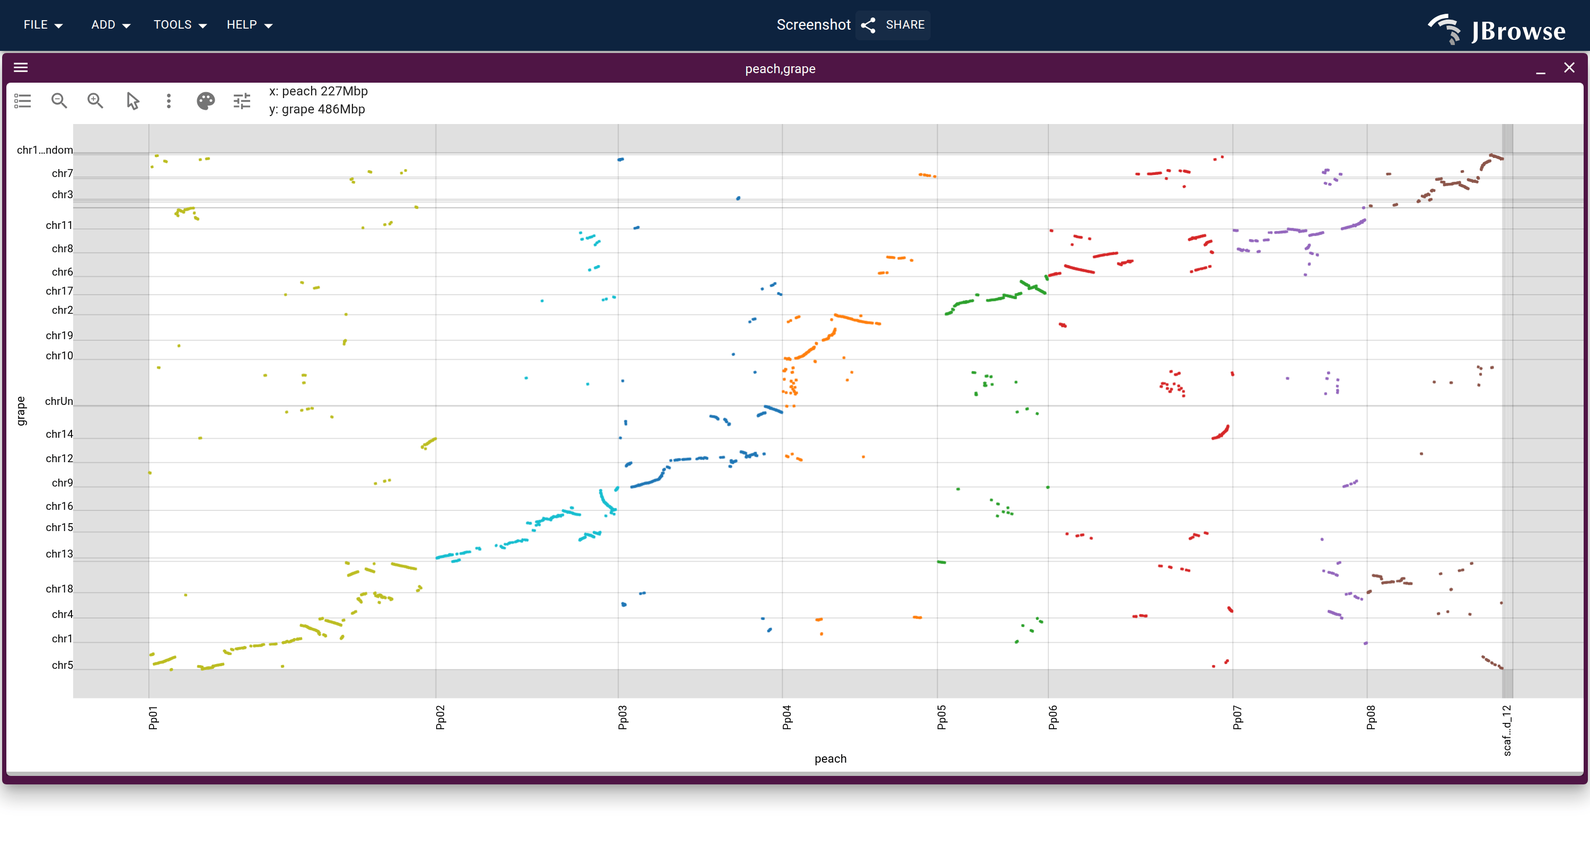
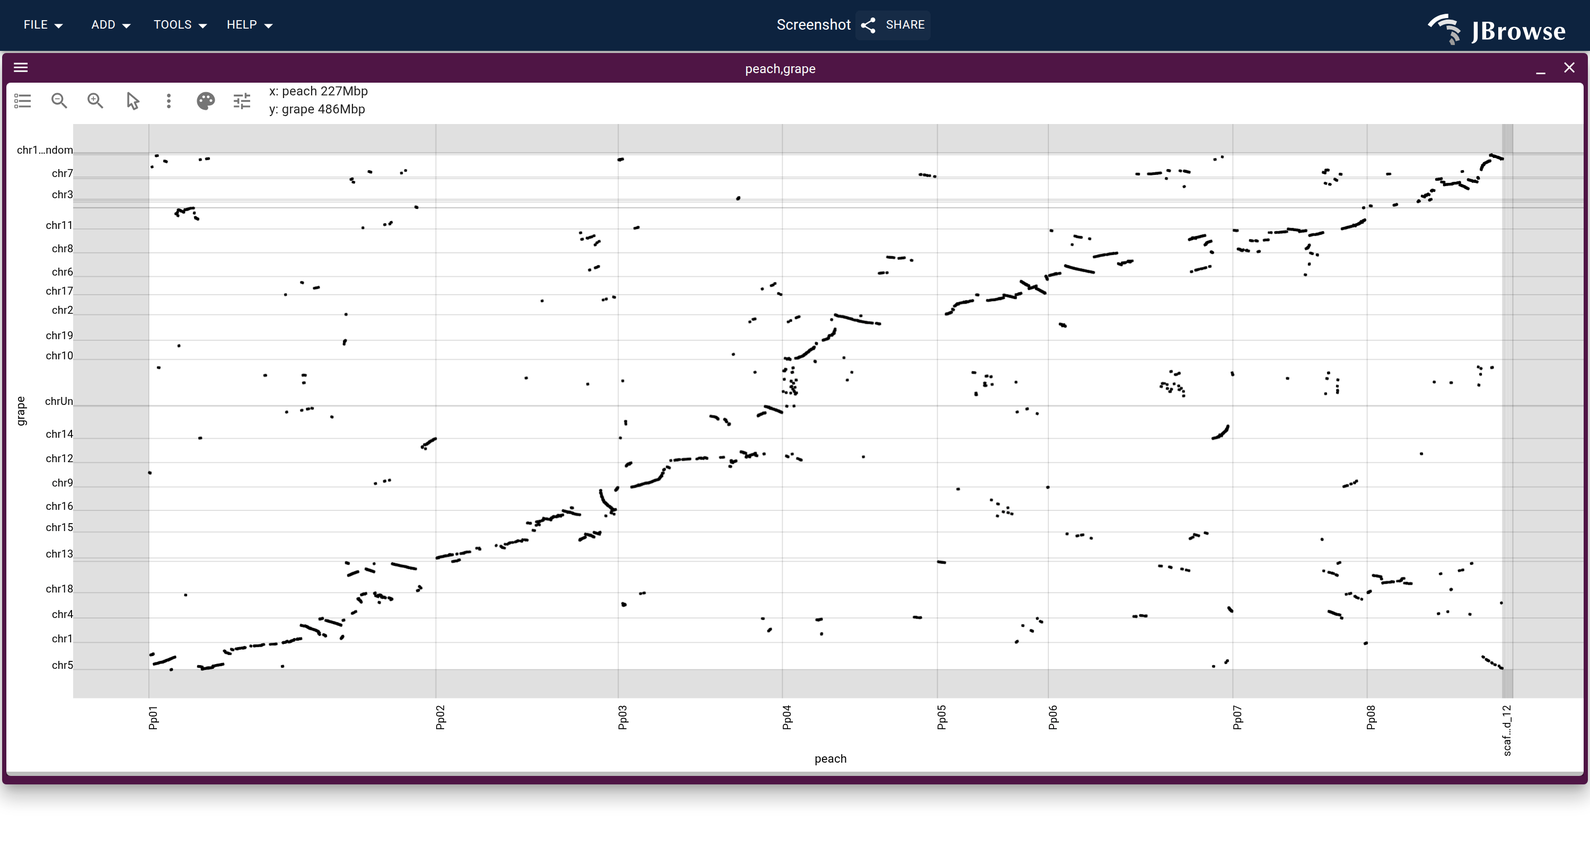
docs(dotplot): drop colorBy from the dotplots, document self-alignment
Per-query coloring was doing rescue work on two whole-genome plots and doing
it badly: a rainbow of one-pixel dots reads as noise with extra steps, and on
the MCScan anchors the diagonalized runs already separate on position. Both go
black, which is what every other dotplot here already is.

Adds a chrY-against-itself figure, the case no pairwise plot can produce: the
TSPY array draws as a filled wedge on the diagonal and the Yq palindromes as
crossings off it. The guide section says what a reader needs to reproduce it,
which is mostly that minimap2 needs -P (without it every off-diagonal hit is
marked secondary and dropped) and that the two assembly entries must not be
named after a sequence they contain, or the view hangs on an ambiguous
locstring.

The alignment is hosted under demos/scratch and should move somewhere
permanent before this figure is relied on.

diff --git a/website/src/lib/galleryLinks.generated.ts b/website/src/lib/galleryLinks.generated.ts
@@ -7,7 +7,7 @@ export const specSessionUrls: Record<string, string> = {
   "synteny_human_chimp_cigar_modes": "?config=test_data/hg38_panTro6_synteny/config.json&session=spec-%7B%22views%22%3A%5B%7B%22type%22%3A%22LinearSyntenyView%22%2C%22cigarMode%22%3A%22full%22%2C%22drawCurves%22%3Atrue%2C%22tracks%22%3A%5B%5B%22hg38_panTro6_synteny%22%5D%5D%2C%22views%22%3A%5B%7B%22assembly%22%3A%22hg38%22%2C%22loc%22%3A%22chr13%3A48%2C459%2C000-48%2C477%2C500%22%2C%22tracks%22%3A%5B%7B%22trackId%22%3A%22hg38-genes%22%2C%22geneGlyphMode%22%3A%22longestCoding%22%2C%22featureHeight%22%3A18%7D%2C%7B%22trackId%22%3A%22hg38-rmsk%22%2C%22heightMode%22%3A%22grow%22%7D%5D%2C%22trackLabels%22%3A%22offset%22%7D%2C%7B%22assembly%22%3A%22panTro6%22%2C%22loc%22%3A%22chr13%3A29%2C450%2C000-29%2C459%2C000%22%2C%22tracks%22%3A%5B%7B%22trackId%22%3A%22panTro6-rmsk%22%2C%22heightMode%22%3A%22grow%22%7D%2C%7B%22trackId%22%3A%22panTro6-genes%22%2C%22geneGlyphMode%22%3A%22longestCoding%22%2C%22featureHeight%22%3A18%7D%5D%2C%22trackLabels%22%3A%22offset%22%7D%5D%7D%5D%7D&sessionName=Screenshot",
   "synteny_te_vapb_sva": "?config=test_data/hg38_panTro6_synteny/config.json&session=spec-%7B%22views%22%3A%5B%7B%22type%22%3A%22LinearSyntenyView%22%2C%22cigarMode%22%3A%22full%22%2C%22drawCurves%22%3Atrue%2C%22tracks%22%3A%5B%5B%22hg38_panTro6_synteny%22%5D%5D%2C%22views%22%3A%5B%7B%22assembly%22%3A%22hg38%22%2C%22loc%22%3A%22chr20%3A58%2C404%2C000-58%2C424%2C000%22%2C%22tracks%22%3A%5B%7B%22trackId%22%3A%22hg38-genes%22%2C%22geneGlyphMode%22%3A%22longestCoding%22%2C%22featureHeight%22%3A18%7D%2C%7B%22trackId%22%3A%22hg38-rmsk%22%2C%22heightMode%22%3A%22grow%22%7D%5D%2C%22trackLabels%22%3A%22offset%22%7D%2C%7B%22assembly%22%3A%22panTro6%22%2C%22loc%22%3A%22chr20%3A58%2C043%2C000-58%2C058%2C000%22%2C%22tracks%22%3A%5B%7B%22trackId%22%3A%22panTro6-rmsk%22%2C%22heightMode%22%3A%22grow%22%7D%2C%7B%22trackId%22%3A%22panTro6-genes%22%2C%22geneGlyphMode%22%3A%22longestCoding%22%2C%22featureHeight%22%3A18%7D%5D%2C%22trackLabels%22%3A%22offset%22%7D%5D%7D%5D%7D&sessionName=Screenshot",
   "synteny_te_picalm_alu": "?config=test_data/hg38_panTro6_synteny/config.json&session=spec-%7B%22views%22%3A%5B%7B%22type%22%3A%22LinearSyntenyView%22%2C%22cigarMode%22%3A%22full%22%2C%22drawCurves%22%3Atrue%2C%22tracks%22%3A%5B%5B%22hg38_panTro6_synteny%22%5D%5D%2C%22views%22%3A%5B%7B%22assembly%22%3A%22hg38%22%2C%22loc%22%3A%22chr11%3A85%2C978%2C000-85%2C986%2C000%22%2C%22tracks%22%3A%5B%7B%22trackId%22%3A%22hg38-genes%22%2C%22geneGlyphMode%22%3A%22longestCoding%22%2C%22featureHeight%22%3A18%7D%2C%7B%22trackId%22%3A%22hg38-rmsk%22%2C%22heightMode%22%3A%22grow%22%7D%5D%2C%22trackLabels%22%3A%22offset%22%7D%2C%7B%22assembly%22%3A%22panTro6%22%2C%22loc%22%3A%22chr11%3A81%2C727%2C500-81%2C735%2C000%22%2C%22tracks%22%3A%5B%7B%22trackId%22%3A%22panTro6-rmsk%22%2C%22heightMode%22%3A%22grow%22%7D%2C%7B%22trackId%22%3A%22panTro6-genes%22%2C%22geneGlyphMode%22%3A%22longestCoding%22%2C%22featureHeight%22%3A18%7D%5D%2C%22trackLabels%22%3A%22offset%22%7D%5D%7D%5D%7D&sessionName=Screenshot",
-  "dotplot": "?config=test_data/config_dotplot.json&session=spec-%7B%22views%22%3A%5B%7B%22type%22%3A%22DotplotView%22%2C%22views%22%3A%5B%7B%22assembly%22%3A%22peach%22%7D%2C%7B%22assembly%22%3A%22grape%22%7D%5D%2C%22tracks%22%3A%5B%22grape_peach_paf%22%5D%2C%22minAlignmentLength%22%3A2000%2C%22colorBy%22%3A%22query%22%7D%5D%7D&sessionName=Screenshot",
+  "dotplot": "?config=test_data/config_dotplot.json&session=spec-%7B%22views%22%3A%5B%7B%22type%22%3A%22DotplotView%22%2C%22views%22%3A%5B%7B%22assembly%22%3A%22peach%22%7D%2C%7B%22assembly%22%3A%22grape%22%7D%5D%2C%22tracks%22%3A%5B%22grape_peach_paf%22%5D%2C%22minAlignmentLength%22%3A2000%7D%5D%7D&sessionName=Screenshot",
   "linear_synteny": "?config=test_data/config_dotplot.json&session=spec-%7B%22views%22%3A%5B%7B%22type%22%3A%22LinearSyntenyView%22%2C%22tracks%22%3A%5B%22grape_peach_synteny_mcscan%22%5D%2C%22drawCurves%22%3Afalse%2C%22colorBy%22%3A%22query%22%2C%22alpha%22%3A0.8%2C%22levelHeights%22%3A%5B360%5D%2C%22autoDiagonalize%22%3Atrue%2C%22views%22%3A%5B%7B%22assembly%22%3A%22peach%22%7D%2C%7B%22assembly%22%3A%22grape%22%7D%5D%7D%5D%7D&sessionName=Screenshot",
   "multiway_synteny/grape_peach_cacao": "?config=https%3A%2F%2Fjbrowse.org%2Fdemos%2Fgrape_peach_cacao%2Fconfig.json&session=spec-%7B%22views%22%3A%5B%7B%22type%22%3A%22LinearSyntenyView%22%2C%22views%22%3A%5B%7B%22assembly%22%3A%22peach%22%7D%2C%7B%22assembly%22%3A%22cacao%22%7D%2C%7B%22assembly%22%3A%22grape%22%7D%5D%2C%22tracks%22%3A%5B%5B%22grape_peach_cacao_blocks%22%5D%2C%5B%22grape_peach_cacao_blocks%22%5D%5D%2C%22colorBy%22%3A%22reference%22%2C%22autoDiagonalize%22%3Atrue%7D%5D%7D&sessionName=Screenshot",
   "multiway_synteny/grape_peach_cacao_gene_orthologs": "?config=https%3A%2F%2Fjbrowse.org%2Fdemos%2Fgrape_peach_cacao%2Fconfig.json&session=spec-%7B%22views%22%3A%5B%7B%22type%22%3A%22LinearSyntenyView%22%2C%22views%22%3A%5B%7B%22assembly%22%3A%22peach%22%2C%22loc%22%3A%22G7%3A19%2C290%2C000-19%2C362%2C000%22%2C%22tracks%22%3A%5B%7B%22trackId%22%3A%22peach_genes%22%2C%22showOnlyGenes%22%3Atrue%2C%22displayMode%22%3A%22compact%22%2C%22showDescriptions%22%3Afalse%7D%5D%7D%2C%7B%22assembly%22%3A%22grape%22%2C%22loc%22%3A%2211%3A1%2C840%2C000-1%2C927%2C000%22%2C%22tracks%22%3A%5B%7B%22trackId%22%3A%22grape_genes%22%2C%22showOnlyGenes%22%3Atrue%2C%22displayMode%22%3A%22compact%22%2C%22showDescriptions%22%3Afalse%7D%5D%7D%2C%7B%22assembly%22%3A%22cacao%22%2C%22loc%22%3A%22IX%3A4%2C665%2C000-4%2C743%2C000%22%2C%22tracks%22%3A%5B%7B%22trackId%22%3A%22cacao_genes%22%2C%22showOnlyGenes%22%3Atrue%2C%22displayMode%22%3A%22compact%22%2C%22showDescriptions%22%3Afalse%7D%5D%7D%5D%2C%22tracks%22%3A%5B%5B%22grape_peach_cacao_blocks%22%5D%2C%5B%22grape_peach_cacao_blocks%22%5D%5D%2C%22drawCurves%22%3Atrue%2C%22colorBy%22%3A%22reference%22%7D%5D%7D&sessionName=Screenshot",
@@ -23,7 +23,7 @@ export const specSessionUrls: Record<string, string> = {
   "mcscan_anchors": "?config=test_data/config_dotplot.json&session=spec-%7B%22views%22%3A%5B%7B%22type%22%3A%22LinearSyntenyView%22%2C%22drawCurves%22%3Atrue%2C%22tracks%22%3A%5B%5B%22grape_peach_synteny_mcscan%22%2C%22grape_peach_synteny_mcscan_simple%22%5D%5D%2C%22levelHeights%22%3A%5B236%5D%2C%22views%22%3A%5B%7B%22assembly%22%3A%22peach%22%2C%22loc%22%3A%22Pp05%3A7%2C380%2C181-14%2C148%2C567%22%2C%22tracks%22%3A%5B%7B%22trackId%22%3A%22grape_peach_synteny_mcscan_simple%22%2C%22type%22%3A%22LGVSyntenyDisplay%22%2C%22height%22%3A60%7D%5D%7D%2C%7B%22assembly%22%3A%22grape%22%2C%22loc%22%3A%22chr2%3A1-7%2C112%2C179%22%2C%22tracks%22%3A%5B%7B%22trackId%22%3A%22grape_peach_synteny_mcscan_simple%22%2C%22type%22%3A%22LGVSyntenyDisplay%22%2C%22height%22%3A60%7D%5D%7D%5D%7D%5D%7D&sessionName=Screenshot",
   "mcscan_synteny/anchors": "?config=test_data/config_dotplot.json&session=spec-%7B%22views%22%3A%5B%7B%22type%22%3A%22LinearSyntenyView%22%2C%22tracks%22%3A%5B%5B%22grape_peach_synteny_mcscan%22%5D%5D%2C%22drawCurves%22%3Afalse%2C%22levelHeights%22%3A%5B260%5D%2C%22collapseEmptyRows%22%3Atrue%2C%22views%22%3A%5B%7B%22assembly%22%3A%22grape%22%2C%22loc%22%3A%22chr9%3A1-7%2C700%2C000%22%2C%22tracks%22%3A%5B%5D%7D%2C%7B%22assembly%22%3A%22peach%22%2C%22loc%22%3A%22Pp03%3A2%2C100%2C000-6%2C900%2C000%22%2C%22tracks%22%3A%5B%5D%7D%5D%7D%5D%7D&sessionName=Screenshot",
   "mcscan_synteny/anchors_simple": "?config=test_data/config_dotplot.json&session=spec-%7B%22views%22%3A%5B%7B%22type%22%3A%22LinearSyntenyView%22%2C%22tracks%22%3A%5B%5B%22grape_peach_synteny_mcscan_simple%22%2C%22grape_peach_synteny_mcscan%22%5D%5D%2C%22drawCurves%22%3Afalse%2C%22levelHeights%22%3A%5B260%5D%2C%22collapseEmptyRows%22%3Atrue%2C%22views%22%3A%5B%7B%22assembly%22%3A%22grape%22%2C%22loc%22%3A%22chr9%3A1-7%2C700%2C000%22%2C%22tracks%22%3A%5B%5D%7D%2C%7B%22assembly%22%3A%22peach%22%2C%22loc%22%3A%22Pp03%3A2%2C100%2C000-6%2C900%2C000%22%2C%22tracks%22%3A%5B%5D%7D%5D%7D%5D%7D&sessionName=Screenshot",
-  "mcscan_synteny/dotplot": "?config=test_data/config_dotplot.json&session=spec-%7B%22views%22%3A%5B%7B%22type%22%3A%22DotplotView%22%2C%22views%22%3A%5B%7B%22assembly%22%3A%22peach%22%7D%2C%7B%22assembly%22%3A%22grape%22%7D%5D%2C%22tracks%22%3A%5B%22grape_peach_synteny_mcscan%22%5D%2C%22colorBy%22%3A%22query%22%2C%22autoDiagonalize%22%3Atrue%7D%5D%7D&sessionName=Screenshot",
+  "mcscan_synteny/dotplot": "?config=test_data/config_dotplot.json&session=spec-%7B%22views%22%3A%5B%7B%22type%22%3A%22DotplotView%22%2C%22views%22%3A%5B%7B%22assembly%22%3A%22peach%22%7D%2C%7B%22assembly%22%3A%22grape%22%7D%5D%2C%22tracks%22%3A%5B%22grape_peach_synteny_mcscan%22%5D%2C%22autoDiagonalize%22%3Atrue%7D%5D%7D&sessionName=Screenshot",
   "hs1_vs_mm39_synteny": "?config=test_data/hs1_vs_mm39/config.json&session=spec-%7B%22views%22%3A%5B%7B%22type%22%3A%22LinearSyntenyView%22%2C%22tracks%22%3A%5B%22hs1ToMm39.over.chain.pif%22%5D%2C%22minAlignmentLength%22%3A500000%2C%22drawCurves%22%3Afalse%2C%22autoDiagonalize%22%3Atrue%2C%22colorBy%22%3A%22query%22%2C%22alpha%22%3A0.4%2C%22levelHeights%22%3A%5B350%5D%2C%22views%22%3A%5B%7B%22assembly%22%3A%22hs1%22%7D%2C%7B%22assembly%22%3A%22mm39%22%7D%5D%7D%5D%7D&sessionName=Screenshot",
   "synteny_hg38_hs1_tnnt3": "?config=test_data/hg38_hs1_synteny/config.json&session=spec-%7B%22views%22%3A%5B%7B%22type%22%3A%22LinearSyntenyView%22%2C%22colorBy%22%3A%22strand%22%2C%22tracks%22%3A%5B%5B%22hg38_hs1_synteny%22%5D%5D%2C%22drawCurves%22%3Atrue%2C%22cigarMode%22%3A%22matches%22%2C%22views%22%3A%5B%7B%22assembly%22%3A%22hg38%22%2C%22loc%22%3A%22chr11%3A1%2C881%2C000-1%2C955%2C000%22%2C%22tracks%22%3A%5B%7B%22trackId%22%3A%22hg38-genes%22%2C%22geneGlyphMode%22%3A%22longestCoding%22%7D%5D%2C%22trackLabels%22%3A%22offset%22%7D%2C%7B%22assembly%22%3A%22hs1%22%2C%22loc%22%3A%22chr11%3A1%2C964%2C700-2%2C038%2C700%22%2C%22tracks%22%3A%5B%7B%22trackId%22%3A%22hs1-genes%22%2C%22geneGlyphMode%22%3A%22longestCoding%22%2C%22showOnlyGenes%22%3Atrue%7D%5D%2C%22trackLabels%22%3A%22offset%22%7D%5D%7D%5D%7D&sessionName=Screenshot",
   "genomes_synteny/ribbons_default": "?config=test_data/hg38_hs1_synteny/config.json&session=spec-%7B%22views%22%3A%5B%7B%22type%22%3A%22LinearSyntenyView%22%2C%22colorBy%22%3A%22strand%22%2C%22tracks%22%3A%5B%5B%22hg38_hs1_synteny%22%5D%5D%2C%22views%22%3A%5B%7B%22assembly%22%3A%22hg38%22%2C%22loc%22%3A%22chr11%3A1%2C881%2C000-1%2C955%2C000%22%2C%22tracks%22%3A%5B%7B%22trackId%22%3A%22hg38-genes%22%2C%22geneGlyphMode%22%3A%22longestCoding%22%7D%5D%2C%22trackLabels%22%3A%22offset%22%7D%2C%7B%22assembly%22%3A%22hs1%22%2C%22loc%22%3A%22chr11%3A1%2C964%2C700-2%2C038%2C700%22%2C%22tracks%22%3A%5B%7B%22trackId%22%3A%22hs1-genes%22%2C%22geneGlyphMode%22%3A%22longestCoding%22%2C%22showOnlyGenes%22%3Atrue%7D%5D%2C%22trackLabels%22%3A%22offset%22%7D%5D%7D%5D%7D&sessionName=Screenshot",
@@ -40,6 +40,7 @@ export const specSessionUrls: Record<string, string> = {
   "sv_synteny/assembly_order_warning": "?config=https%3A%2F%2Fjbrowse.org%2Fdemos%2Fhpylori%2Fconfig.json&session=spec-%7B%22sessionTracks%22%3A%5B%7B%22type%22%3A%22SyntenyTrack%22%2C%22trackId%22%3A%22hpylori_reversed_assembly_names%22%2C%22name%22%3A%2226695%20vs%20CHC155%20(assemblyNames%20reversed)%22%2C%22assemblyNames%22%3A%5B%22hpylori_26695%22%2C%22hpylori_chc155%22%5D%2C%22adapter%22%3A%7B%22type%22%3A%22PairwiseIndexedPAFAdapter%22%2C%22assemblyNames%22%3A%5B%22hpylori_26695%22%2C%22hpylori_chc155%22%5D%2C%22pifGzLocation%22%3A%7B%22uri%22%3A%22https%3A%2F%2Fjbrowse.org%2Fdemos%2Fhpylori%2F26695_vs_chc155.pif.gz%22%2C%22locationType%22%3A%22UriLocation%22%7D%2C%22index%22%3A%7B%22indexType%22%3A%22TBI%22%2C%22location%22%3A%7B%22uri%22%3A%22https%3A%2F%2Fjbrowse.org%2Fdemos%2Fhpylori%2F26695_vs_chc155.pif.gz.tbi%22%2C%22locationType%22%3A%22UriLocation%22%7D%7D%7D%7D%5D%2C%22views%22%3A%5B%7B%22type%22%3A%22LinearSyntenyView%22%2C%22tracks%22%3A%5B%5B%22hpylori_reversed_assembly_names%22%5D%5D%2C%22collapseEmptyRows%22%3Atrue%2C%22levelHeights%22%3A%5B200%5D%2C%22views%22%3A%5B%7B%22assembly%22%3A%22hpylori_26695%22%2C%22loc%22%3A%22NC_018939.1%22%7D%2C%7B%22assembly%22%3A%22hpylori_chc155%22%2C%22loc%22%3A%22NZ_AP026446.1%22%7D%5D%7D%5D%7D&sessionName=Screenshot",
   "dotplot_add": "?config=test_data/volvox/config.json&session=spec-%7B%22views%22%3A%5B%5D%7D&sessionName=Screenshot",
   "synteny_from_dotplot_view": "?config=test_data/config_dotplot.json&session=spec-%7B%22views%22%3A%5B%7B%22type%22%3A%22DotplotView%22%2C%22views%22%3A%5B%7B%22assembly%22%3A%22peach%22%7D%2C%7B%22assembly%22%3A%22grape%22%7D%5D%2C%22tracks%22%3A%5B%22grape_peach_synteny_mcscan%22%2C%22grape_peach_synteny_mcscan_simple%22%5D%7D%5D%7D&sessionName=Screenshot",
+  "dotplot_self_chry": "?config=test_data/chry_self/config.json&session=spec-%7B%22views%22%3A%5B%7B%22type%22%3A%22DotplotView%22%2C%22tracks%22%3A%5B%22hs1_chrY_self%22%5D%2C%22views%22%3A%5B%7B%22assembly%22%3A%22T2T_chrY%22%2C%22loc%22%3A%22chrY%3A2%2C700%2C000-26%2C600%2C000%22%7D%2C%7B%22assembly%22%3A%22T2T_chrY_self%22%2C%22loc%22%3A%22chrY%3A2%2C700%2C000-26%2C600%2C000%22%7D%5D%2C%22minAlignmentLength%22%3A25000%7D%5D%7D&sessionName=Screenshot",
   "gallery/yeast_dotplot": "?config=test_data/yeast_synteny/config.json&session=spec-%7B%22views%22%3A%5B%7B%22type%22%3A%22DotplotView%22%2C%22views%22%3A%5B%7B%22assembly%22%3A%22R64%22%7D%2C%7B%22assembly%22%3A%22YJM1447%22%7D%5D%2C%22tracks%22%3A%5B%22dotplot_track%22%5D%2C%22autoDiagonalize%22%3Atrue%7D%5D%7D&sessionName=Screenshot",
   "volvox_alignments": "?config=test_data/volvox/config.json&session=spec-%7B%22views%22%3A%5B%7B%22type%22%3A%22LinearGenomeView%22%2C%22assembly%22%3A%22volvox%22%2C%22loc%22%3A%22ctgA%3A1-20000%22%2C%22tracks%22%3A%5B%22volvox_cram_alignments%22%5D%7D%5D%7D&sessionName=Screenshot",
   "sequence_track": "?config=test_data/volvox/config.json&session=spec-%7B%22views%22%3A%5B%7B%22type%22%3A%22LinearGenomeView%22%2C%22assembly%22%3A%22volvox%22%2C%22loc%22%3A%22ctgA%3A20000-20050%22%2C%22tracks%22%3A%5B%22volvox_refseq%22%5D%7D%5D%7D&sessionName=Screenshot",

diff --git a/website/scripts/specs/synteny.ts b/website/scripts/specs/synteny.ts
@@ -16,6 +16,10 @@ import {
 
 import type { ScreenshotSpec } from '../screenshot-spec-types.ts'
 
+// PAR1 through the end of the euchromatic male-specific region of T2T chrY,
+// which is what the self-alignment covers (Yq12 beyond it is DYZ satellite).
+const CHRY_MSY_LOCUS = 'chrY:2,700,000-26,600,000'
+
 // hg38 vs T2T-CHM13 (hs1) at TNNT3, the locus the genomes.jbrowse.org demo
 // session parks on. `view` carries the ribbon-drawing settings that differ
 // between the default figure and the curved/transparent-indel one.
@@ -333,13 +337,14 @@ export const syntenySpecs: ScreenshotSpec[] = [
     //
     // Grape and peach are divergent enough that this PAF is all short hits: the
     // median block is well under a kb and the longest is ~12kb against a 227 x
-    // 486 Mbp plot. Drawn plain and black that is a uniform scatter with the
-    // syntenic runs lost inside it, which is what this figure used to be. The
-    // min-length filter keeps roughly the top tenth by block length, and
-    // per-query coloring separates what survives: the short diagonal runs read
-    // as blocks, and the horizontal band across grape chr12 stays visible but
-    // is now obviously every peach chromosome at once, i.e. a repeat-rich
-    // region rather than synteny.
+    // 486 Mbp plot, so every block draws as a single dot and the min-length
+    // filter is what leaves anything readable.
+    //
+    // No colorBy. Per-query coloring was added here to separate the survivors,
+    // and it does not: a rainbow of one-pixel dots reads as noise with extra
+    // steps (reviewer). Black is the house style for a dotplot, and where the
+    // plain plot has no structure to show, that is the dataset's problem to fix
+    // rather than the palette's.
     url: sessionSpec(DOTPLOT_CONFIG, {
       views: [
         {
@@ -347,7 +352,6 @@ export const syntenySpecs: ScreenshotSpec[] = [
           views: [{ assembly: 'peach' }, { assembly: 'grape' }],
           tracks: ['grape_peach_paf'],
           minAlignmentLength: 2000,
-          colorBy: 'query',
         },
       ],
     }),
@@ -1132,12 +1136,14 @@ export const syntenySpecs: ScreenshotSpec[] = [
 
   // The same MCScan run as a dotplot, which mcscan_synteny.md never mentioned:
   // one dot per orthologous gene pair, so the whole-genome plot is the one jcvi
-  // itself draws, from the file the tutorial has already loaded. Per-query
-  // coloring gives each peach chromosome its own color, which is what separates
-  // the syntenic runs from the scatter of single anchors. autoDiagonalize
+  // itself draws, from the file the tutorial has already loaded. autoDiagonalize
   // reorders the grape axis to follow peach: in raw .fai order the same runs are
   // scattered over the plot, and grape has 19 chromosomes to peach's 8, so
   // reading which pairs correspond is the whole point of the reorder.
+  //
+  // Black, like every other dotplot here. Per-query coloring was tried and
+  // dropped (reviewer): the diagonalized runs already separate on position, and
+  // the palette only competes with them.
   {
     mode: 'url',
     name: 'mcscan_synteny/dotplot',
@@ -1147,7 +1153,6 @@ export const syntenySpecs: ScreenshotSpec[] = [
           type: 'DotplotView',
           views: [{ assembly: 'peach' }, { assembly: 'grape' }],
           tracks: ['grape_peach_synteny_mcscan'],
-          colorBy: 'query',
           autoDiagonalize: true,
         },
       ],
@@ -1855,6 +1860,44 @@ export const syntenySpecs: ScreenshotSpec[] = [
       },
     ],
   },
+  // A chromosome against itself, which no pairwise plot can produce: the filled
+  // wedge on the diagonal at ~9.3 Mb is the TSPY tandem array, and the lattice
+  // of off-diagonal crossings at 21-26 Mb is the Yq palindrome family, each arm
+  // meeting its own inverted copy.
+  //
+  // The alignment covers chrY:2,700,000-26,600,000 (PAR1 through the end of the
+  // euchromatic MSY), so the view frames that rather than the whole chromosome:
+  // Yq12 is ~30 Mb of DYZ satellite that minimap2 with -P does not finish on in
+  // reasonable time, and it would be empty here.
+  //
+  // 25 kb minimum. Below ~30 kb the dispersed repeats black the plot out
+  // entirely; above ~100 kb only the palindromes survive.
+  {
+    mode: 'url',
+    name: 'dotplot_self_chry',
+    url: sessionSpec('test_data/chry_self/config.json', {
+      views: [
+        {
+          type: 'DotplotView',
+          tracks: ['hs1_chrY_self'],
+          views: [
+            { assembly: 'T2T_chrY', loc: CHRY_MSY_LOCUS },
+            { assembly: 'T2T_chrY_self', loc: CHRY_MSY_LOCUS },
+          ],
+          minAlignmentLength: 25000,
+        },
+      ],
+    }),
+    // near-square, so the diagonal reads at 45 degrees and the palindrome
+    // crossings stay symmetric
+    viewportWidth: 1000,
+    viewportHeight: 760,
+    readySelector: '[data-testid="dotplot_webgl_canvas_done"]',
+    // 21 MB PIF plus the hs1 chrom.sizes, both remote
+    readyTimeout: 180000,
+    settleMs: 10000,
+  },
+
   {
     mode: 'url',
     name: 'gallery/yeast_dotplot',

diff --git a/website/src/lib/gallery.ts b/website/src/lib/gallery.ts
@@ -137,7 +137,7 @@ export const gallerySections: readonly GallerySection[] = [
         spec: 'dotplot',
         guide: 'user_guides/dotplot_view',
         description:
-          'Grape against peach from a minimap2 PAF, colored by query chromosome with short alignments filtered out. The dotplot pans and zooms like any other view, and drag-selecting a block opens that region as a linear synteny view.',
+          'Grape against peach from a minimap2 PAF, with short alignments filtered out. The dotplot pans and zooms like any other view, and drag-selecting a block opens that region as a linear synteny view.',
       },
       {
         label: 'Human vs mouse synteny',

diff --git a/website/docs/user_guides/dotplot_view.md b/website/docs/user_guides/dotplot_view.md
@@ -23,23 +23,51 @@ rather than reordering panels.
 
 <Figure caption="Launching a dotplot view from the Add menu (top), then the import form's Manual mode, where you select two assemblies and optionally supply a synteny file (bottom). The same form is shared with the linear synteny view." src="/img/dotplot_add.png" />
 
-<Figure caption="Dotplot of grape (Y-axis) vs peach (X-axis) genomes, with Color by set to Query and a minimum alignment length applied. Each peach chromosome takes its own color, so the short diagonal runs read as syntenic blocks; the horizontal band across grape chr12 is every peach chromosome at once, a repeat-rich region rather than synteny." src="/img/dotplot.png" />
+<Figure caption="Dotplot of grape (Y-axis) vs peach (X-axis) genomes with a minimum alignment length applied. The two genomes are divergent enough that the minimap2 PAF is almost all sub-kilobase hits, so each block draws as a single dot. The horizontal band across grape chr12 is a repeat-rich region rather than synteny." src="/img/dotplot.png" />
 
 ### Cutting clutter on a busy plot
 
 Two toolbar controls do most of the work on a whole-genome plot, and the figure
-above uses both:
+above uses the second:
 
 - The palette button's **Color by** menu. **Query** gives each sequence on the
-  horizontal axis its own color, which separates real syntenic runs from
-  scatter. **Strand** and **Identity** are there too, and each option carries a
-  description of what it colors. With more than one alignment file plotted
-  together, **Distinct color per track** gives each its own color, and
-  **Customize per track** below it overrides the mode or pins the color for one
-  track at a time.
+  horizontal axis its own color, and **Strand** and **Identity** color by those
+  instead. Each option carries a description of what it colors. With more than
+  one alignment file plotted together, **Distinct color per track** gives each
+  its own color, and **Customize per track** below it overrides the mode or pins
+  the color for one track at a time. A plot whose blocks are all a single pixel
+  wide reads no better in color than in black, so reach for **Min length**
+  first.
 - **Min length**, in the settings popover, drops alignments shorter than the
   slider value. Divergent genomes align in many short fragments, and hiding them
   is usually what makes the syntenic blocks visible at all.
+
+## A genome against itself
+
+Aligning a sequence to itself puts its internal repeat structure on the plot.
+Tandem arrays draw as filled wedges sitting on the diagonal, and inverted
+repeats draw as crossings off it.
+
+<Figure caption="T2T-CHM13 chrY aligned to itself over the euchromatic male-specific region, at a 25 kb minimum length. The filled wedge on the diagonal near 9.3 Mb is the TSPY tandem array. The lattice of crossings between 21 and 26 Mb is the Yq palindrome family, each arm meeting its own inverted copy off the diagonal." src="/img/dotplot_self_chry.png" />
+
+Producing the alignment takes one extra minimap2 flag:
+
+```bash
+minimap2 -x asm20 -P chrY.fa chrY.fa > chrY_self.paf
+jbrowse make-pif chrY_self.paf --csi
+```
+
+`-P` is not optional here. Without it minimap2 keeps one primary chain per query
+and marks the rest secondary, so a sequence aligned to itself returns its own
+diagonal and almost nothing else, which reads as the repeats not being there.
+With `-P` every dispersed repeat is kept too, so set **Min length** afterwards
+or the plot fills in solid at whole-chromosome zoom.
+
+The two axes come from a synteny track's two `assemblyNames`, so a self
+comparison needs two assembly entries pointing at the same sequence under
+different names. Avoid giving either one the same name as a sequence inside it:
+a locstring can carry an assembly prefix, so an assembly called `chrY` holding a
+`chrY` makes `chrY:1-1000` ambiguous and the view will not finish loading.
 
 ## Navigation and interaction
 

diff --git a/website/docs/tutorials/mcscan_synteny.md b/website/docs/tutorials/mcscan_synteny.md
@@ -200,7 +200,7 @@ chromosomes against 8 peach ones scatters the runs over the plot. **Re-order
 chromosomes** in the view menu sorts the vertical axis to follow the horizontal
 one, using the alignments themselves.
 
-<Figure caption="Grape against peach, every point one orthologous gene pair from the .anchors file, colored by peach chromosome after Re-order chromosomes. Each run of points is one MCScan block, and one peach color on several grape rows is one peach chromosome matching several grape ones." src="/img/mcscan_synteny/dotplot.png" />
+<Figure caption="Grape against peach after Re-order chromosomes, every point one orthologous gene pair from the .anchors file. Each run of points is one MCScan block, and a peach column crossing several grape rows is one peach chromosome matching several grape ones." src="/img/mcscan_synteny/dotplot.png" />
 
 ## Reproduce it end to end
 
